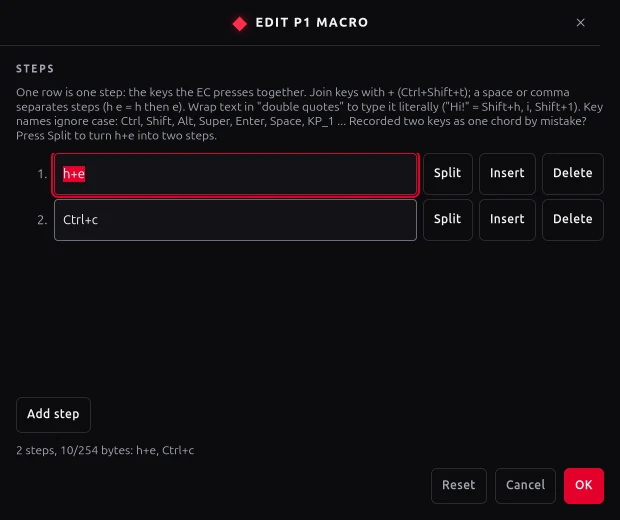
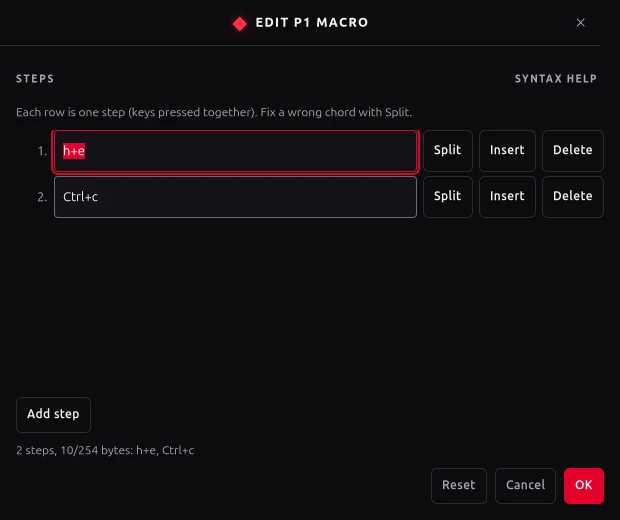
Editor dialog: replace the wall-of-text hint with a short line + SYNTAX HELP panel
The STEPS hint was a five-line paragraph mixing chords, separators, quoting and
key names; it read as noise above the steps.  Keep one short line ("Each row is
one step ... Fix a wrong chord with Split.") and put the spelling rules behind
a small SYNTAX HELP toggle that opens a full-width reference grid:

    Ctrl+Shift+t        one step: the keys pressed together
    h e  or  h, e       two steps in order: h, then e
    "Hi!"               literal text: Shift+h, i, Shift+1
    Ctrl  Enter  KP_1   key names, case-insensitive

Samples are selectable monospace chips, the panel is hidden by default (the
dialog opens on the steps, not on documentation), the toggle reads HIDE HELP
while open and uses the app palette instead of the theme accent. 268/268 render
checks, selftest and all test suites green.

Changed region(s): [[0.0306, 0.1231, 0.9806, 0.4308], [0.8887, 0.2769, 0.9806, 0.3385]]

diff --git a/omen_macro/gui.py b/omen_macro/gui.py
@@ -272,6 +272,43 @@ button.destructive-action label,
     color: $text_dim;
     font-size: 12px;
 }
+/* Compact syntax reference used under the editor's STEPS heading. */
+.syntax-help {
+    color: $text_dim;
+    background: transparent;
+    border: 1px solid transparent;
+    border-radius: 4px;
+    padding: 2px 6px;
+    font-size: 10px;
+    font-weight: 800;
+    letter-spacing: 1.4px;
+    box-shadow: none;
+}
+.syntax-help:hover {
+    color: $text;
+    background-color: $surface_hover;
+}
+.syntax-help:checked,
+.syntax-help:checked:hover {
+    color: $text;
+    background-color: $surface_hover;
+}
+.syntax-sample {
+    font-family: $mono;
+    font-size: 11px;
+    color: $text;
+    background-color: $surface_hover;
+    border: 1px solid $border;
+    border-radius: 4px;
+    padding: 1px 6px;
+}
+.syntax-desc {
+    color: $text_dim;
+    font-size: 11px;
+}
+.syntax-panel {
+    border-bottom: 1px solid $border;
+}
 .page-title {
     color: $text;
     font-size: 19px;
@@ -2590,22 +2627,63 @@ class MacroWindow(Gtk.ApplicationWindow):
         # Delete).  Only this outer container and the labels around it change.
         outer = self._dialog_body()
 
+        heading_row = Gtk.Box(orientation=Gtk.Orientation.HORIZONTAL, spacing=8)
         heading = Gtk.Label(label="STEPS", xalign=0)
         heading.add_css_class("dialog-heading")
-        outer.append(heading)
+        heading.set_hexpand(True)
+        heading_row.append(heading)
+
+        # The spelling rules are one click away; the visible line stays short
+        # so the dialog opens on the steps instead of on a paragraph.  The
+        # reference panel sits below the hint and spans the dialog width, which
+        # keeps the heading row to a single line when it opens.
+        help_btn = Gtk.ToggleButton(label="SYNTAX HELP")
+        help_btn.add_css_class("syntax-help")
+        help_btn.set_tooltip_text(
+            "How to write steps, chords and literal text")
+        help_btn.set_halign(Gtk.Align.END)
+        help_btn.set_valign(Gtk.Align.CENTER)
+        heading_row.append(help_btn)
+        outer.append(heading_row)
+
         hint = Gtk.Label(xalign=0)
         hint.set_wrap(True)
         hint.add_css_class("hint")
         hint.set_text(
-            "One row is one step: the keys the EC presses together. Join keys "
-            "with + (Ctrl+Shift+t); a space or comma separates steps "
-            "(h e = h then e). Wrap text in \"double quotes\" to type it "
-            "literally (\"Hi!\" = Shift+h, i, Shift+1). Key names ignore "
-            "case: Ctrl, Shift, Alt, Super, Enter, Space, KP_1 ... Recorded "
-            "two keys as one chord by mistake? Press Split to turn h+e into "
-            "two steps."
+            "Each row is one step (keys pressed together). "
+            "Fix a wrong chord with Split."
         )
         outer.append(hint)
+
+        syntax_panel = Gtk.Box(orientation=Gtk.Orientation.VERTICAL, spacing=0)
+        syntax_panel.add_css_class("syntax-panel")
+        syntax_grid = Gtk.Grid(column_spacing=10, row_spacing=5)
+        syntax_grid.set_margin_top(6)
+        syntax_grid.set_margin_bottom(8)
+        syntax_grid.set_margin_start(2)
+        for row_index, (sample, description) in enumerate((
+            ("Ctrl+Shift+t", "one step: the keys pressed together"),
+            ("h e  or  h, e", "two steps in order: h, then e"),
+            ('"Hi!"', "literal text: Shift+h, i, Shift+1"),
+            ("Ctrl  Enter  KP_1", "key names, case-insensitive"),
+        )):
+            example = Gtk.Label(label=sample, xalign=0)
+            example.add_css_class("syntax-sample")
+            example.set_selectable(True)
+            explanation = Gtk.Label(label=description, xalign=0)
+            explanation.add_css_class("syntax-desc")
+            explanation.set_hexpand(True)
+            syntax_grid.attach(example, 0, row_index, 1, 1)
+            syntax_grid.attach(explanation, 1, row_index, 1, 1)
+        syntax_panel.append(syntax_grid)
+        syntax_panel.set_visible(False)
+        def toggle_help(btn: Gtk.ToggleButton) -> None:
+            active = btn.get_active()
+            syntax_panel.set_visible(active)
+            btn.set_label("HIDE HELP" if active else "SYNTAX HELP")
+
+        help_btn.connect("toggled", toggle_help)
+        outer.append(syntax_panel)
 
         steps_box = Gtk.Box(orientation=Gtk.Orientation.VERTICAL, spacing=4)
         scroller = Gtk.ScrolledWindow()
